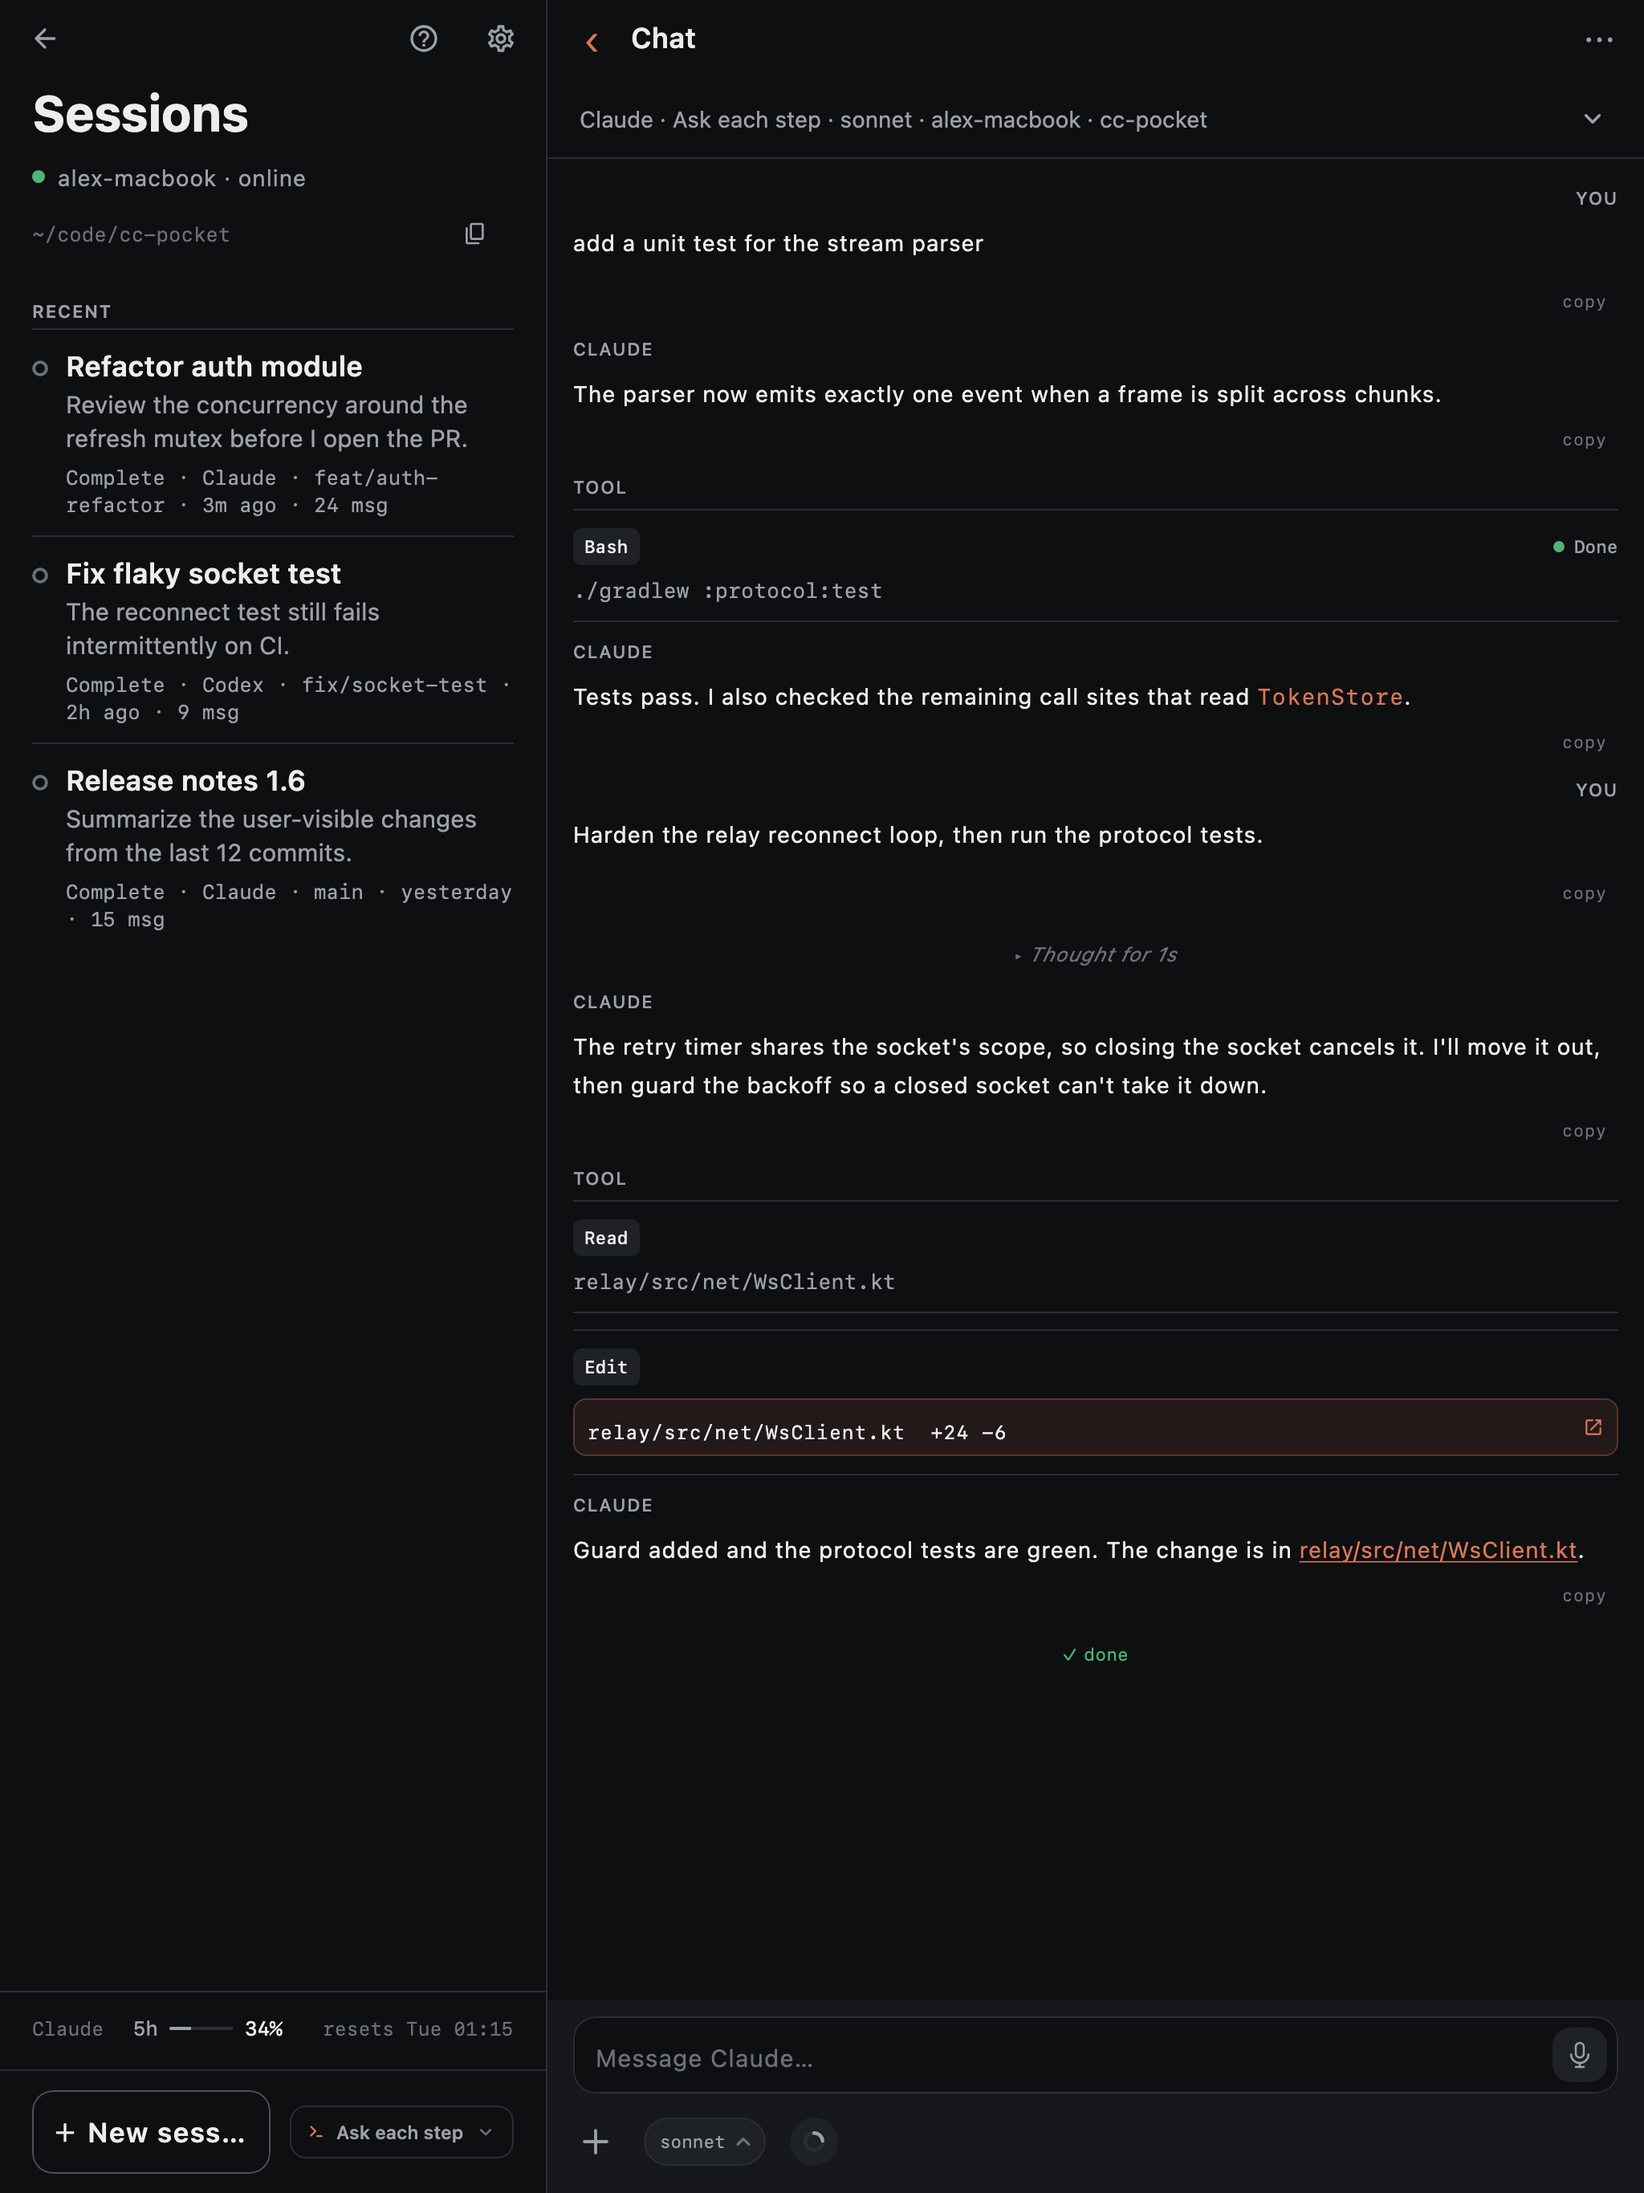
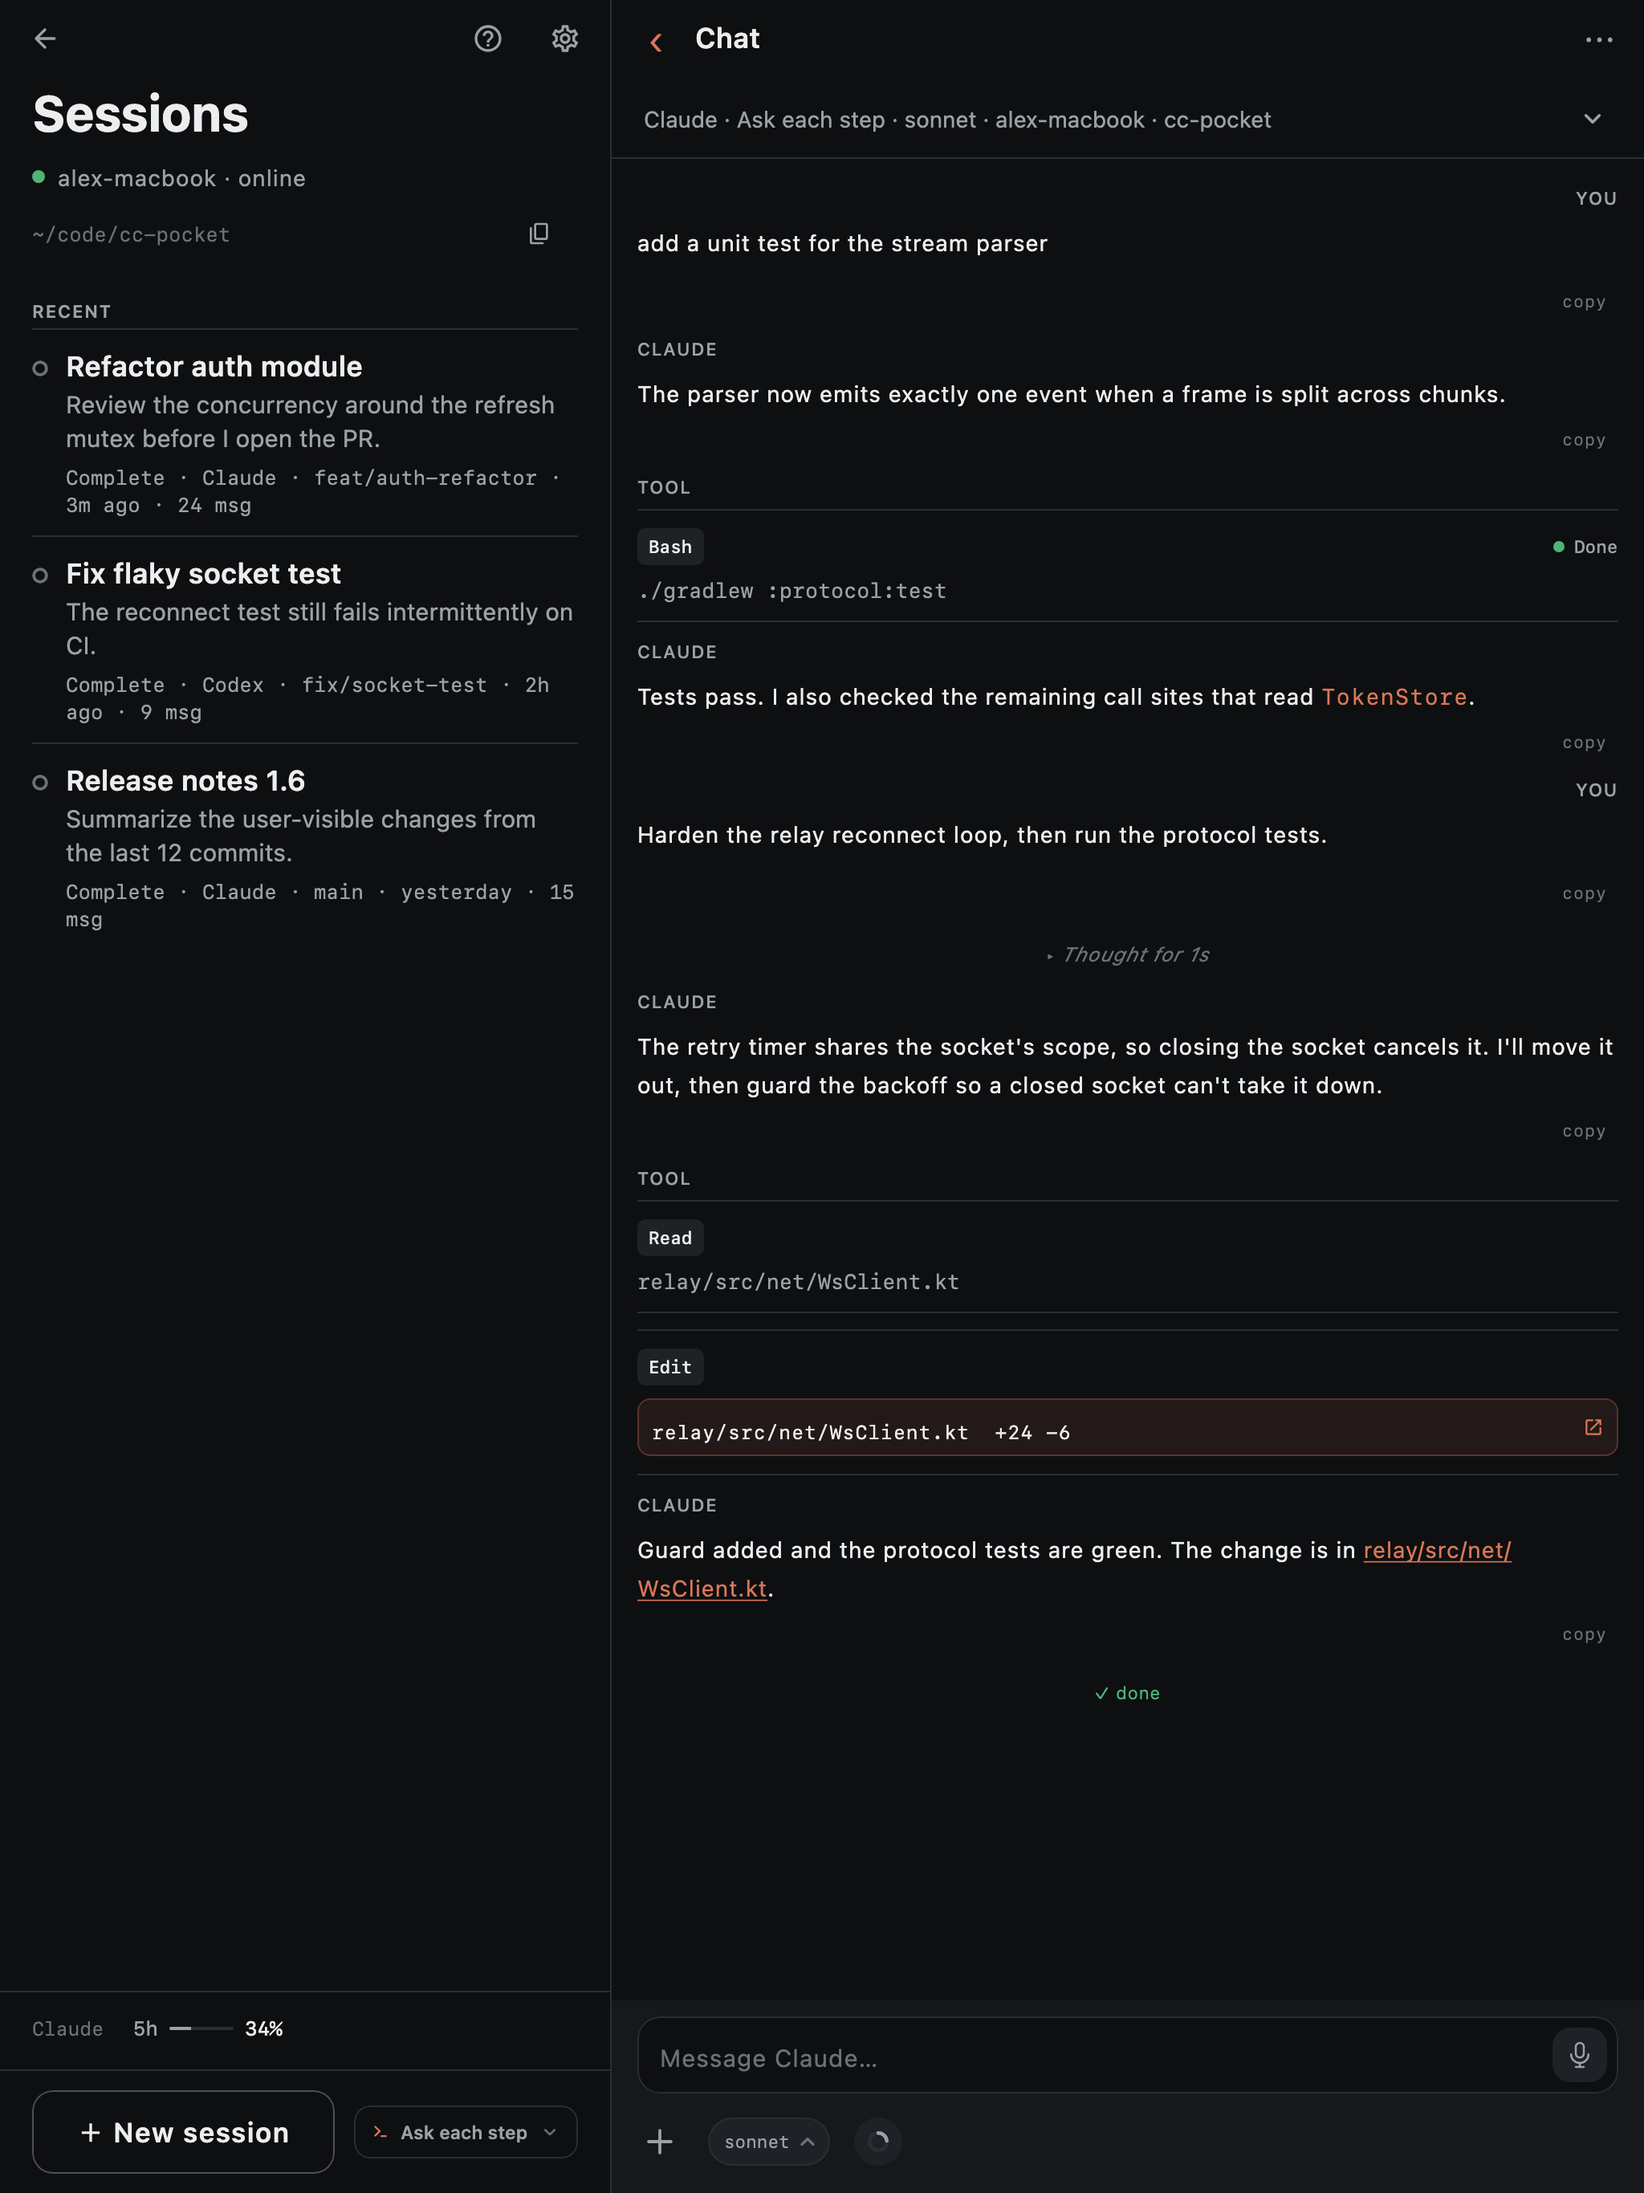
fix(app): iPad 列表栏加宽到 380dp、额度条窄时隐藏重置时间；商店截图以会话帧领衔 (#334)
商店帧暴露的两处真实缺陷：340dp 左栏下英文「+ New session」截断、额度条重置
时间被裁成「r…」。列表栏改 380dp（1024pt 下右栏仍 ≥640dp）；单后端额度行在
宽度 <400dp 时不画重置时间（sheet 里仍有）。iPad 截图集重渲，01 改为会话工作帧。

diff --git a/mobile/composeApp/src/commonMain/kotlin/dev/ccpocket/app/ui/QuotaStrip.kt b/mobile/composeApp/src/commonMain/kotlin/dev/ccpocket/app/ui/QuotaStrip.kt
@@ -3,6 +3,7 @@ package dev.ccpocket.app.ui
 import androidx.compose.foundation.background
 import androidx.compose.foundation.clickable
 import androidx.compose.foundation.layout.Box
+import androidx.compose.foundation.layout.BoxWithConstraints
 import androidx.compose.foundation.layout.Arrangement
 import androidx.compose.foundation.layout.Row
 import androidx.compose.foundation.layout.WindowInsets
@@ -143,6 +144,10 @@ private fun QuotaStripRow(sec: QuotaSection, now: Long, single: Boolean, last: B
     // centring the text ABOVE an untouched 34dp of black — that stack was the "wasted bottom" complaint.
     // Inset-less devices keep the handoff's 48dp box unchanged (min binds). Rows ABOVE the last one take
     // no inset: only the row that actually touches the physical edge may reserve it.
+    // the reset caption is the first thing to go when the row is narrow (a 380dp iPad list column clipped
+    // it to "r…"): the sheet behind the tap still carries every reset moment
+    BoxWithConstraints(Modifier.fillMaxWidth()) {
+    val roomForCaption = maxWidth >= 400.dp
     Row(
         Modifier.fillMaxWidth()
             .heightIn(min = if (single) 48.dp else if (last) 40.dp else 30.dp)
@@ -167,12 +172,13 @@ private fun QuotaStripRow(sec: QuotaSection, now: Long, single: Boolean, last: B
         sec.segments.forEach { QuotaStripSegment(it) }
         Spacer(Modifier.weight(1f))
         // the reset the user actually has to plan around is the one attached to the tightest window
-        stripResetText(tightest?.resetsAt, now)?.let {
+        if (roomForCaption) stripResetText(tightest?.resetsAt, now)?.let {
             Text(
                 it, color = Tok.muted, fontFamily = FontFamily.Monospace, fontSize = 12.sp,
                 style = tightCenter(12.sp), maxLines = 1, overflow = TextOverflow.Ellipsis,
             )
         }
+    }
     }
 }
 

diff --git a/mobile/composeApp/src/desktopTest/kotlin/dev/ccpocket/app/showcase/AppStoreIpadScreenshotRender.kt b/mobile/composeApp/src/desktopTest/kotlin/dev/ccpocket/app/showcase/AppStoreIpadScreenshotRender.kt
@@ -188,14 +188,15 @@ class AppStoreIpadScreenshotRender {
      * on purpose: it is the one frame that states what the layout IS before showing it working.
      */
     private fun frames(): List<Frame> = listOf(
-        // 01 · Projects in the list column, the chat column waiting — the two-pane shape, stated plainly.
+        // 01 · The headline frame: sessions on the left, a turn streaming with tool calls on the right —
+        // leads the store page because it shows the layout WORKING, not just its shape
+        Frame("sessions") { s -> attached(); sessionList(blocked = false); streamingTurn(s) },
+        // 02 · Projects in the list column, the chat column waiting — the two-pane shape, stated plainly.
         // The FLAT view is picked deliberately: the demo tree collapses these four projects into two
         // parent folders (`code`, `Library`), which is correct and says nothing about the product.
         Frame("projects") {
             attached(); treeView.value = false; receiveForTest(ShowcaseSeeds.directories())
         },
-        // 02 · The headline frame: sessions on the left, a turn streaming with tool calls on the right
-        Frame("sessions") { s -> attached(); sessionList(blocked = false); streamingTurn(s) },
         // 03 · The same two panes with a real permission request open — Chat pins it, the list marks the row
         Frame("approve") { s ->
             attached(); sessionList(); streamingTurn(s)

diff --git a/mobile/composeApp/src/commonMain/kotlin/dev/ccpocket/app/ui/WideLayout.kt b/mobile/composeApp/src/commonMain/kotlin/dev/ccpocket/app/ui/WideLayout.kt
@@ -49,7 +49,9 @@ import org.jetbrains.compose.resources.stringResource
 val WIDE_LAYOUT_MIN_WIDTH = 700.dp
 
 /** Left pane (the list column). Fixed like the desktop sidebar's default rather than proportional. */
-private val LEFT_PANE_WIDTH = 340.dp
+// 380dp: the sessions dock ("+ New session" + the mode chip) and the quota strip both clipped at 340dp
+// in English on the iPad store frames; 380 fits them and still leaves ≥ 640dp of chat at 1024pt.
+private val LEFT_PANE_WIDTH = 380.dp
 
 /** …clamped so the chat column never drops below a usable measure on a 700–740dp window. */
 private val RIGHT_PANE_MIN_WIDTH = 360.dp
